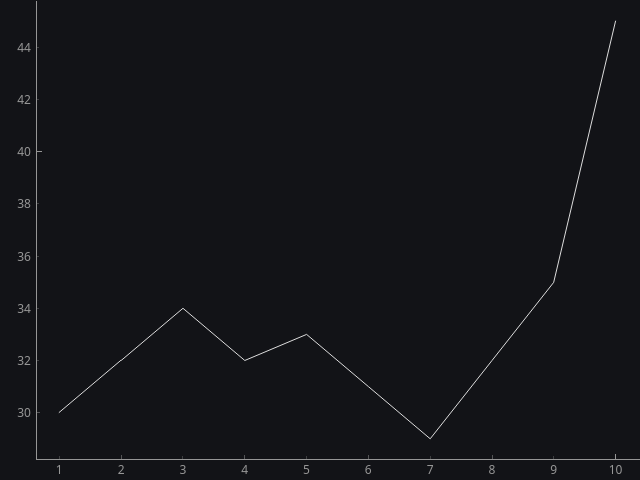
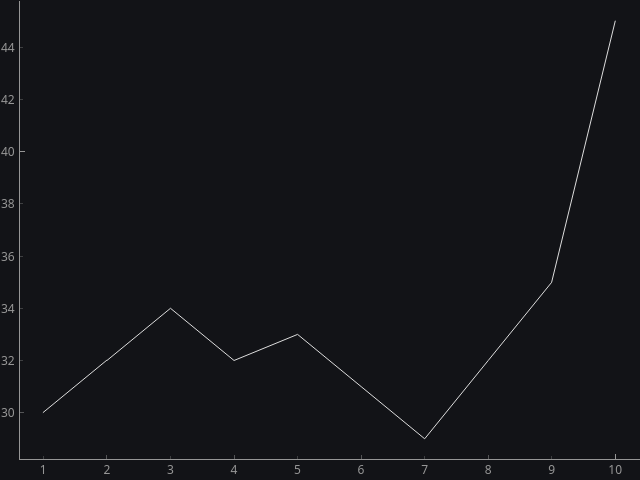
set the line color in 3-tuple of int values, line width in pixels, solid line style

diff --git a/pyqtplot03.py b/pyqtplot03.py
@@ -9,7 +9,6 @@ import sys
 
 import pyqtgraph as pg
 from PyQt6 import QtCore, QtWidgets
-from pyqtgraph import exporters
 
 
 class MainWindow(QtWidgets.QMainWindow):
@@ -19,7 +18,7 @@ class MainWindow(QtWidgets.QMainWindow):
         super().__init__()
 
         # set the size parameters (width, height) pixels
-        self.setFixedSize(QtCore.QSize(400, 300))
+        self.setFixedSize(QtCore.QSize(640, 480))
 
         # set the central widget of the window
         self.graphWidget = pg.PlotWidget()
@@ -36,9 +35,6 @@ class MainWindow(QtWidgets.QMainWindow):
         # plot data: x, y values with lines drawn using Qt's QPen types
         self.graphWidget.plot(hour, temperature, pen=lvalue)
 
-        # create an exporter instance, give it the item to export
-        self.exporter = exporters.ImageExporter(self.graphWidget.plotItem)
-        self.exporter.export("pyqtplot03.png")
 
 
 def main():
